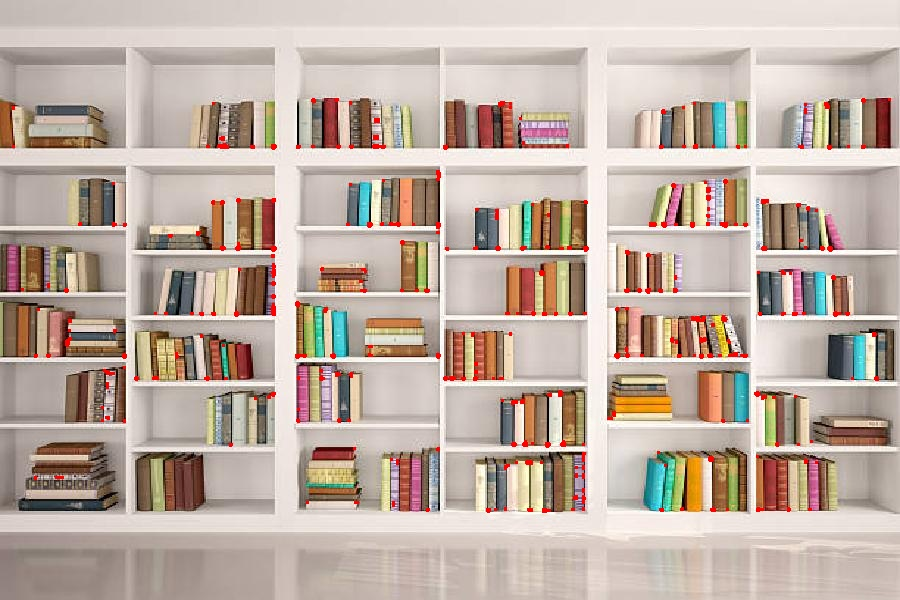
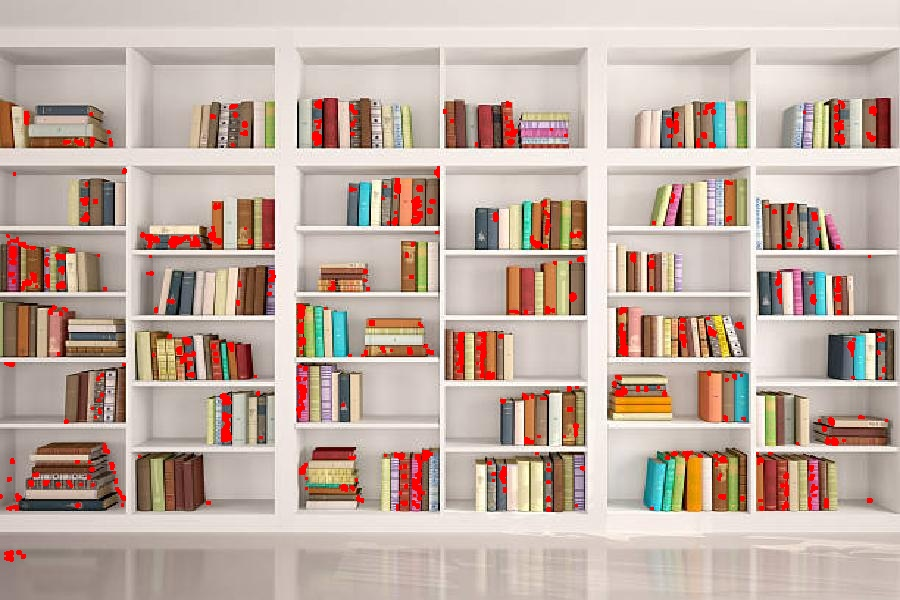
ongoing

diff --git a/test_shapeDetector.py b/test_shapeDetector.py
@@ -1,0 +1,153 @@
+# 모양을 구분해주는 ShapeDetector
+import cv2 as cv
+
+
+# # 전처리한 사진 다른이름으로 저장하기
+# path = "C:/Users/DELL/PycharmProjects/Object-detection/image/test_shelf_resized.jpg"
+# # resized_image.save(path)
+# img = cv.imread(path, cv.IMREAD_COLOR)
+# img_gray = cv.cvtColor(img, cv.COLOR_BGR2GRAY) # shape : (600, 900)
+#
+#
+# # cv2의 Corner Harris 함수 사용 (전처리 후)
+# # 책장 검출 용이한 사진으로 전처리
+# # ret,thresh1 = cv.threshold(img_gray,127,255,cv.THRESH_BINARY)
+# ret,thresh2 = cv.threshold(img_gray,127,255,cv.THRESH_BINARY_INV) # 책 아웃라인 검출
+#
+#
+# class ShapeDetector:
+#
+#     def __init__(self):
+#
+#         pass
+#
+#     def detect(self, c):
+#
+#         # initialize the shape name and approximate the contour
+#         shape = "unidentified"
+#         peri = cv.arcLength(c, True)
+#         approx = cv.approxPolyDP(c, 0.04 * peri, True)
+#
+#
+#         # if the shape is a triangle, it will have 3 vertices
+#         if len(approx) == 3:
+#
+#             shape = "triangle"
+#
+#
+#         # if the shape has 4 vertices, it is either a square or a rectangle
+#         elif len(approx) == 4:
+#
+#             # compute the bounding box of the contour and use the
+#             # bounding box to compute the aspect ratio
+#             (x, y, w, h) = cv.boundingRect(approx)
+#             ar = w / float(h)
+#
+#             # a square will have an aspect ratio that is approximately equal to one, otherwise, the shape is a rectangle
+#             shape = "square" if ar >= 0.95 and ar <= 1.05 else "rectangle"
+#
+#
+#         # if the shape is a pentagon, it will have 5 vertices
+#         elif len(approx) == 5:
+#
+#             shape = "pentagon"
+#
+#
+#         # otherwise, we assume the shape is a circle
+#         else:
+#
+#             shape = "circle"
+#
+#
+#         # return the name of the shape
+#         return shape
+#
+#
+# # cv2.findContours 함수는 윤곽이 있는 부분을 찾아주는 함수이다.
+#
+# sd = ShapeDetector()
+# cnts = cv.findContours(thresh2.copy(), cv.RETR_EXTERNAL,cv.CHAIN_APPROX_SIMPLE)
+# cnts = cnts[0] if imutils.is_cv2() else cnts[1] # 찾은 contour들 cnts에 저장된다.
+#
+# # 찾아진 contour들 사진에 표시해서 띄우기
+# for c in cnts:
+#
+#     if sd.detect(c) != 'rectangle': next
+#     c = c.astype("float")
+#     c = c.astype("int")
+#     x, y, w, h = cv.boundingRect(c)
+#     cv.rectangle(thresh2, (x, y), (x + w, y + h), (3, 255, 4), 2)
+#     cv.imshow("image", img)
+#     cv.waitKey(0)
+#
+# cv.destroyAllWindows()
+
+
+
+
+# 위 코드가 되지 않아서 찾아본 Reference Code <https://webnautes.tistory.com/1296>
+
+def setLabel(image, str, contour):
+    (text_width, text_height), baseline = cv.getTextSize(str, cv.FONT_HERSHEY_SIMPLEX, 0.7, 1)
+    x,y,width,height = cv.boundingRect(contour)
+    pt_x = x+int((width-text_width)/2)
+    pt_y = y+int((height + text_height)/2)
+    cv.rectangle(image, (pt_x, pt_y+baseline), (pt_x+text_width, pt_y-text_height), (200,200,200), cv.FILLED)
+    cv.putText(image, str, (pt_x, pt_y), cv.FONT_HERSHEY_SIMPLEX, 0.7, (0,0,0), 1, 8)
+
+
+# 이미지 불러오기
+path = "C:/Users/DELL/PycharmProjects/Object-detection/image/test_shelf_resized.jpg"
+img = cv.imread(path, cv.IMREAD_COLOR)
+img_gray = cv.cvtColor(img, cv.COLOR_BGR2GRAY)
+
+# 이미지 이진화시키기
+ret,img_binary = cv.threshold(img_gray, 127, 255, cv.THRESH_BINARY_INV|cv.THRESH_OTSU) # 주의 : 배경이 검은색이고 검출도형이 하얀색이여야한다.
+cv.imshow('result', img_binary)
+cv.waitKey(0)
+
+
+# 컨투어 검출하기
+contours, hierarchy = cv.findContours(img_binary, cv.RETR_EXTERNAL, cv.CHAIN_APPROX_SIMPLE)
+# RETR_EXTERNAL : 외곽의 컨투어만 검출하도록 한다. / CHAIN_APPROX_SIMPLE : 검출되는 컨투어의 구성점 개수 줄이기(ex. 직선부분 양끝점만 검출하기)
+
+
+# 검출된 컨투어를 직선으로 근사화시키기
+for cnt in contours:
+
+    # 컨투어 구성성분 개수 확인하기
+    size = len(cnt)
+    print(size)
+
+    # 컨투어를 직선으로 근사화시키기 2
+    epsilon = 0.005 * cv.arcLength(cnt, True)
+    approx = cv.approxPolyDP(cnt, epsilon, True)
+
+    # 직선으로 근사화시킨 컨투어의 구성성분 개수 확인하기
+    size = len(approx)
+    print(size)
+#
+#     cv.line(img_color, tuple(approx[0][0]), tuple(approx[size-1][0]), (0, 255, 0), 3)
+#     for k in range(size-1):
+#         cv.line(img_color, tuple(approx[k][0]), tuple(approx[k+1][0]), (0, 255, 0), 3)
+#
+#     if cv.isContourConvex(approx):
+#         if size == 3:
+#             setLabel(img_color, "triangle", cnt)
+#         elif size == 4:
+#             setLabel(img_color, "rectangle", cnt)
+#         elif size == 5:
+#             setLabel(img_color, "pentagon", cnt)
+#         elif size == 6:
+#             setLabel(img_color, "hexagon", cnt)
+#         elif size == 8:
+#             setLabel(img_color, "octagon", cnt)
+#         elif size == 10:
+#             setLabel(img_color, "decagon", cnt)
+#         else:
+#             setLabel(img_color, str(size), cnt)
+#     else:
+#         setLabel(img_color, str(size), cnt)
+#
+# cv.imshow('result', img_color)
+# cv.waitKey(0)

diff --git a/test_cornerDetect.py b/test_cornerDetect.py
@@ -17,12 +17,17 @@ img_gray = cv.cvtColor(img, cv.COLOR_BGR2GRAY) # shape : (600, 900)
 
 # cv2의 Corner Harris 함수 사용 (전처리 후)
 # 책장 검출 용이한 사진으로 전처리
+# ret,thresh1 = cv.threshold(img_gray,127,255,cv.THRESH_BINARY)
+ret,thresh2 = cv.threshold(img_gray,127,255,cv.THRESH_BINARY_INV) # 책 아웃라인 검출
 ret,thresh4 = cv.threshold(img_gray,127,255,cv.THRESH_TOZERO) # 책장 프레임 검출
 thresh4_array = np.float32(thresh4)
+thresh2_array = np.float32(thresh2)
+
+thresh_bookshelf = thresh4_array + thresh2_array # bookshelf만을 선명하게 검출하기 위해
 
 # print(img_dup)
 # print(img_dup.shape) # (600, 900, 3)
-dst = cv.cornerHarris(thresh4_array, 5, 3, 0.04)
+dst = cv.cornerHarris(thresh_bookshelf, 5, 3, 0.04)
 # print(dst)
 print(dst.shape) # (600, 900) # 고정시킨 사진 size
 print(dst.max())
@@ -46,30 +51,30 @@ cv.imwrite(path, img)
 
 
 
-# cv2의 Corner Harris 함수 사용 (전처리 없이)
-path = "C:/Users/DELL/PycharmProjects/Object-detection/image/test_shelf_resized.jpg"
-img = cv.imread(path, cv.IMREAD_COLOR)
-
-img_gray = cv.cvtColor(img,cv.COLOR_BGR2GRAY)
-img_gray = np.float32(img_gray)
-
-# print(img_dup)
-# print(img_dup.shape) # (600, 900, 3)
-dst = cv.cornerHarris(img_gray, 5, 3, 0.04)
-# print(dst)
-print(dst.shape) # (600, 900) # 고정시킨 사진 size
-print(dst.max())
-#result is dilated for marking the corners, not important
-dst = cv.dilate(dst,None)
-
-# Threshold for an optimal value, it may vary depending on the image.
-img[dst>0.1*dst.max()]=[0,0,255] # Red Dot
-
-cv.imshow('dst',img)
-
-if cv.waitKey(0) & 0xff == 27:
-    cv.destroyAllWindows()
-
-# corner point 찍힌 사진 저장하기
-path = "C:/Users/DELL/PycharmProjects/Object-detection/image/images_origin_Point_func.jpg"
-cv.imwrite(path, img)
+# # cv2의 Corner Harris 함수 사용 (전처리 없이)
+# path = "C:/Users/DELL/PycharmProjects/Object-detection/image/test_shelf_resized.jpg"
+# img = cv.imread(path, cv.IMREAD_COLOR)
+#
+# img_gray = cv.cvtColor(img,cv.COLOR_BGR2GRAY)
+# img_gray = np.float32(img_gray)
+#
+# # print(img_dup)
+# # print(img_dup.shape) # (600, 900, 3)
+# dst = cv.cornerHarris(img_gray, 5, 3, 0.04)
+# # print(dst)
+# print(dst.shape) # (600, 900) # 고정시킨 사진 size
+# print(dst.max())
+# #result is dilated for marking the corners, not important
+# dst = cv.dilate(dst,None)
+#
+# # Threshold for an optimal value, it may vary depending on the image.
+# img[dst>0.1*dst.max()]=[0,0,255] # Red Dot
+#
+# cv.imshow('dst',img)
+#
+# if cv.waitKey(0) & 0xff == 27:
+#     cv.destroyAllWindows()
+#
+# # corner point 찍힌 사진 저장하기
+# path = "C:/Users/DELL/PycharmProjects/Object-detection/image/images_origin_Point_func.jpg"
+# cv.imwrite(path, img)

diff --git a/bookshelf_opencv_trial.py b/bookshelf_opencv_trial.py
@@ -11,6 +11,7 @@ import numpy as np
 import imutils
 import matplotlib.image as mpimg
 from PIL import Image
+import time
 
 
 # 받아온 사진 사이즈 고정시키기 (1100, 600)
@@ -157,6 +158,7 @@ cv.waitKey(0)
 # images_combiend 파일 저장하기
 path = "C:/Users/DELL/PycharmProjects/Object-detection/image/images_thresh4_Point.jpg"
 cv.imwrite(path, img)
+
 
 
 
